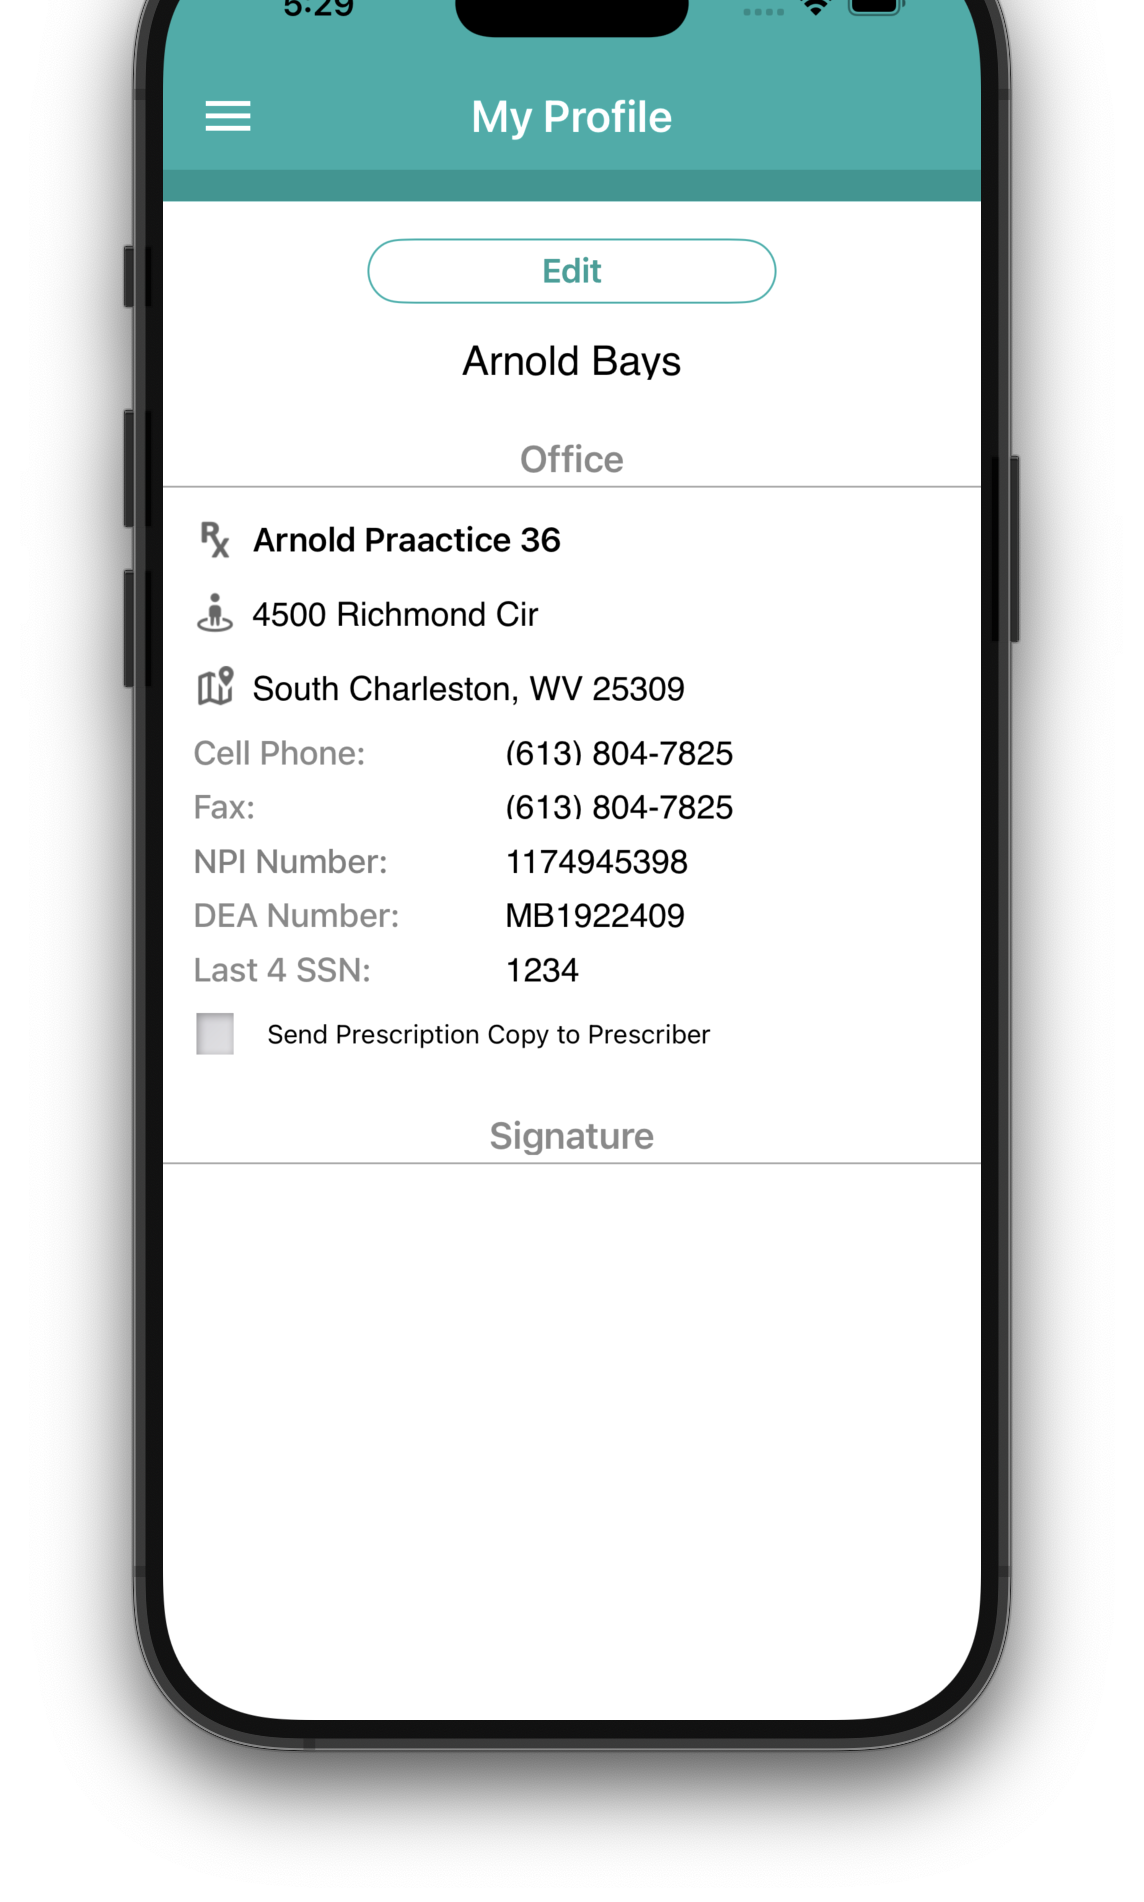
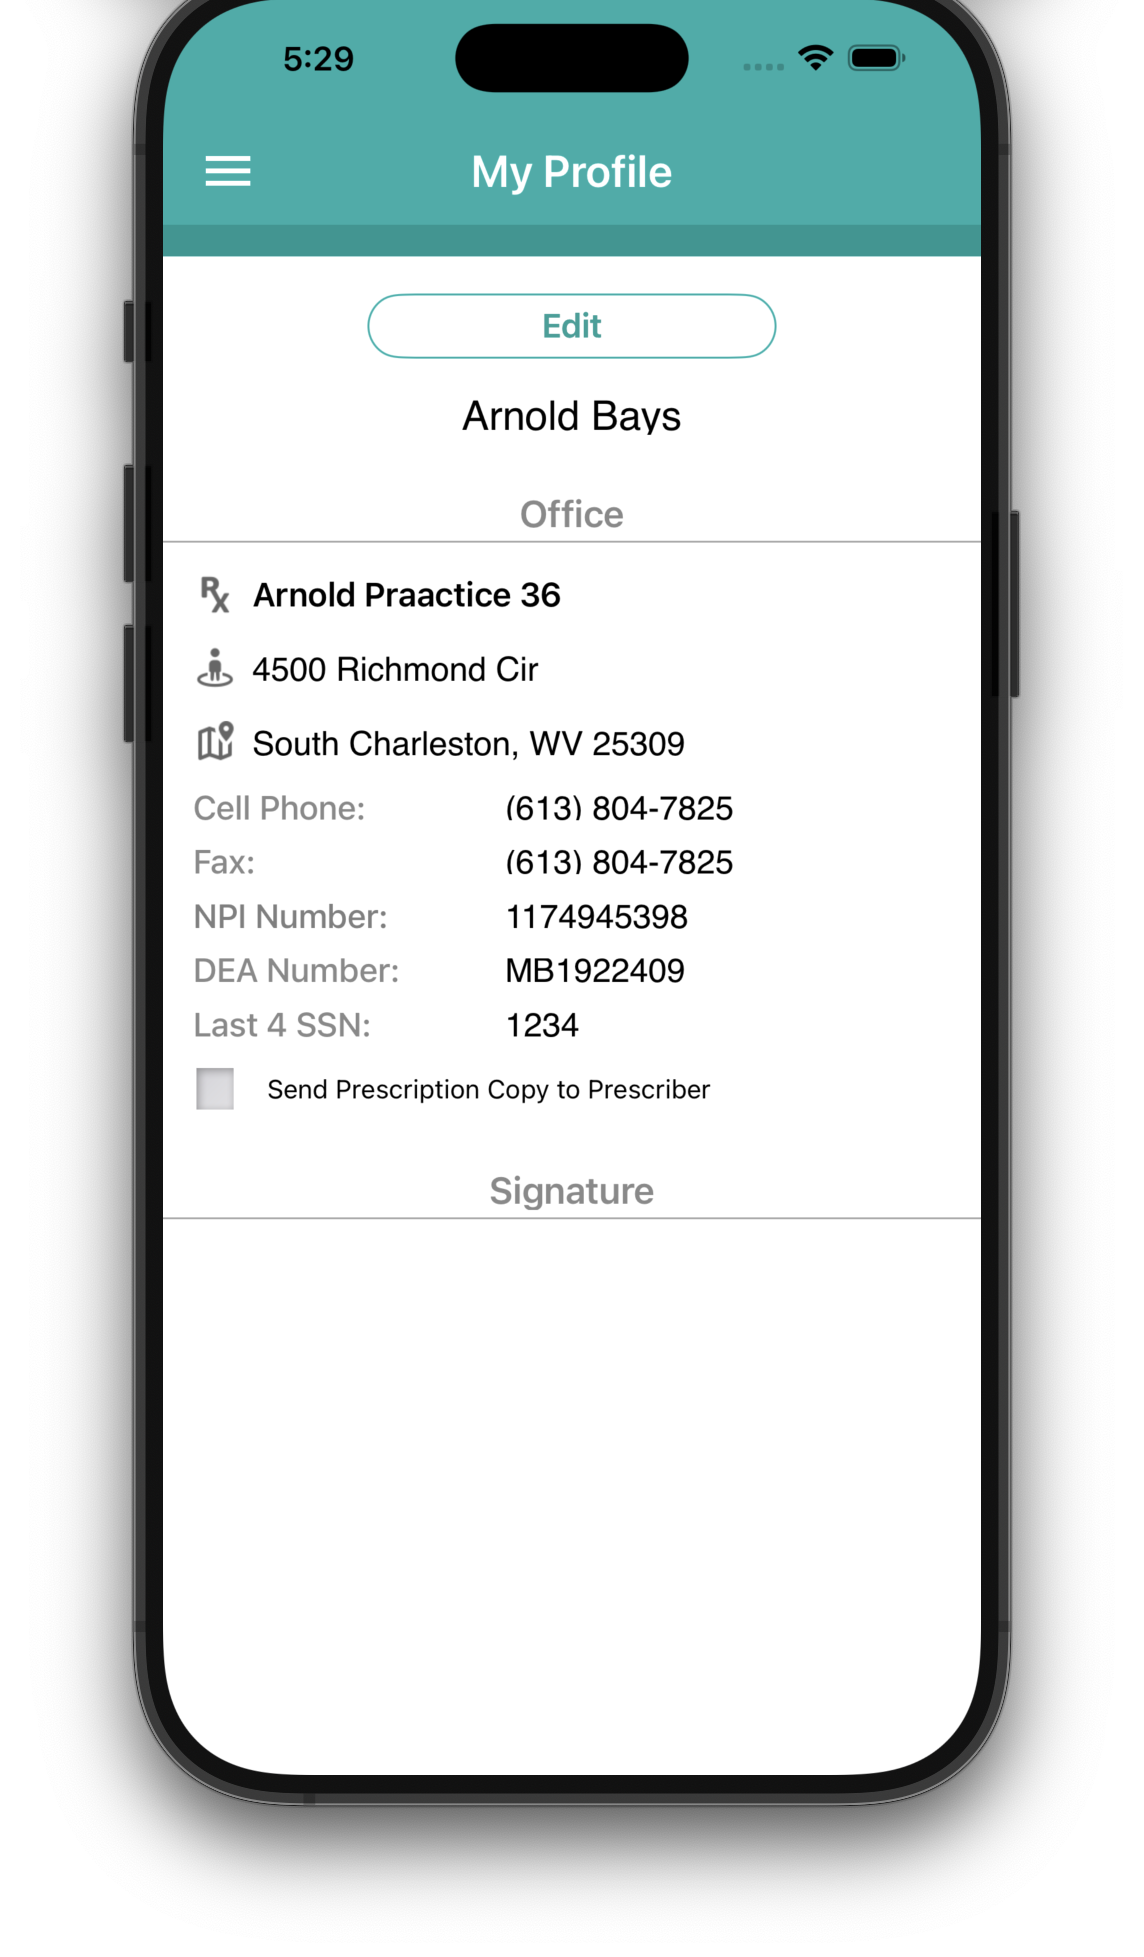
Easier crop on phone screenshots, on-brand modal scrollbar
- Re-crop simulator chrome to 235px instead of 290px so the actual iOS
  status bar (time, signal, battery) and the rounded top of the iPhone
  bezel are no longer clipped. Aspect ratio updated to 1144 / 1957
  across .flip-stage and .phone-img.
- Style the modal scrollbar to match the brand: thin track on a faint
  teal tint, thumb is the teal→cyan gradient with a glow ring.
  Implemented for WebKit (Chrome/Safari/Edge) and Firefox.

diff --git a/index.html b/index.html
@@ -206,7 +206,7 @@ body.has-pointer #cursor-ring{display:block}
 @keyframes float{0%,100%{transform:translateY(0) rotate(-1deg)}50%{transform:translateY(-14px) rotate(1deg)}}
 .phone-shell{background:linear-gradient(160deg,rgba(12,30,55,.96),rgba(5,14,26,.98));border-radius:48px;border:1.5px solid rgba(59,184,175,.22);padding:13px;box-shadow:0 0 0 1px rgba(255,255,255,.04),0 60px 120px rgba(0,0,0,.8),0 0 80px rgba(59,184,175,.1),inset 0 1px 0 rgba(255,255,255,.06)}
 .phone-screen{background:#F2F2F7;border-radius:36px;overflow:hidden;display:flex;flex-direction:column}
-.phone-img{display:block;width:100%;height:auto;aspect-ratio:1144/1902;object-fit:cover;object-position:center top;border-radius:36px;background:#000}
+.phone-img{display:block;width:100%;height:auto;aspect-ratio:1144/1957;object-fit:cover;object-position:center top;border-radius:36px;background:#000}
 /* pharmacy list screen */
 .pscreen-header{background:var(--teal-deep);padding:14px 16px 12px;display:flex;align-items:center;gap:8px}
 .pscreen-back{color:#fff;opacity:.85;display:flex;align-items:center;flex-shrink:0}
@@ -344,7 +344,7 @@ section{position:relative;z-index:1}
 .rx-reset:hover{background:rgba(59,184,175,.07);border-color:rgba(59,184,175,.45)}
 
 /* PAGE-FLIP CAROUSEL — lookbook-style 3D flip through real app screens (21st.dev inspired) */
-.flip-stage{position:relative;perspective:2000px;perspective-origin:50% 50%;width:100%;max-width:340px;margin:0 auto;aspect-ratio:1144/1902;user-select:none}
+.flip-stage{position:relative;perspective:2000px;perspective-origin:50% 50%;width:100%;max-width:340px;margin:0 auto;aspect-ratio:1144/1957;user-select:none}
 .flip-book{position:relative;width:100%;height:100%;transform-style:preserve-3d}
 .flip-page{position:absolute;inset:0;border-radius:34px;overflow:hidden;background:linear-gradient(160deg,rgba(12,30,55,.96),rgba(5,14,26,.98));border:1.5px solid rgba(59,184,175,.22);box-shadow:0 0 0 1px rgba(255,255,255,.04),0 40px 100px rgba(0,0,0,.7),0 0 60px rgba(59,184,175,.08);transform-origin:left center;transition:transform 1.4s cubic-bezier(.6,.04,.3,1),box-shadow 1.4s ease;backface-visibility:hidden;-webkit-backface-visibility:hidden;will-change:transform}
 .flip-page[data-i="0"]{z-index:4}
@@ -555,7 +555,11 @@ footer{border-top:1px solid rgba(59,184,175,.08);padding:64px 0 32px}
 .modal-backdrop{position:fixed;inset:0;background:rgba(3,7,16,.78);backdrop-filter:blur(6px);-webkit-backdrop-filter:blur(6px);z-index:9995;display:flex;align-items:center;justify-content:center;padding:24px;opacity:0;transition:opacity .25s ease}
 .modal-backdrop[hidden]{display:none}
 .modal-backdrop.show{opacity:1}
-.modal-card{position:relative;background:linear-gradient(160deg,rgba(12,30,55,.98),rgba(5,14,26,.99));border:1px solid rgba(59,184,175,.22);border-radius:18px;max-width:760px;width:100%;max-height:85vh;overflow-y:auto;padding:40px 44px;box-shadow:0 60px 120px rgba(0,0,0,.7);transform:translateY(20px);transition:transform .3s ease}
+.modal-card{position:relative;background:linear-gradient(160deg,rgba(12,30,55,.98),rgba(5,14,26,.99));border:1px solid rgba(59,184,175,.22);border-radius:18px;max-width:760px;width:100%;max-height:85vh;overflow-y:auto;padding:40px 44px;box-shadow:0 60px 120px rgba(0,0,0,.7);transform:translateY(20px);transition:transform .3s ease;scrollbar-width:thin;scrollbar-color:var(--teal) rgba(59,184,175,.08)}
+.modal-card::-webkit-scrollbar{width:10px}
+.modal-card::-webkit-scrollbar-track{background:rgba(59,184,175,.06);border-radius:0 18px 18px 0;margin:14px 0}
+.modal-card::-webkit-scrollbar-thumb{background:linear-gradient(180deg,var(--teal),var(--cyan));border-radius:6px;border:2px solid rgba(7,11,20,.85);box-shadow:0 0 8px rgba(59,184,175,.3)}
+.modal-card::-webkit-scrollbar-thumb:hover{background:linear-gradient(180deg,var(--teal2),var(--teal))}
 .modal-backdrop.show .modal-card{transform:translateY(0)}
 .modal-close{position:absolute;top:14px;right:14px;width:36px;height:36px;border-radius:50%;border:1px solid rgba(59,184,175,.22);background:rgba(59,184,175,.06);color:var(--muted2);font-size:24px;line-height:1;cursor:pointer;display:flex;align-items:center;justify-content:center;transition:all .2s}
 .modal-close:hover{color:var(--teal);border-color:var(--teal);background:rgba(59,184,175,.14)}
